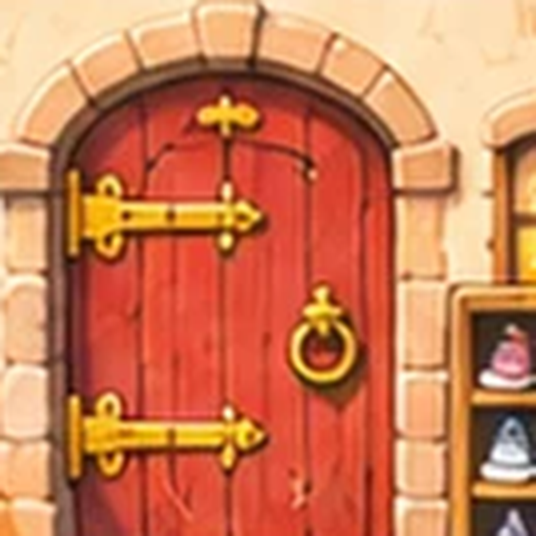
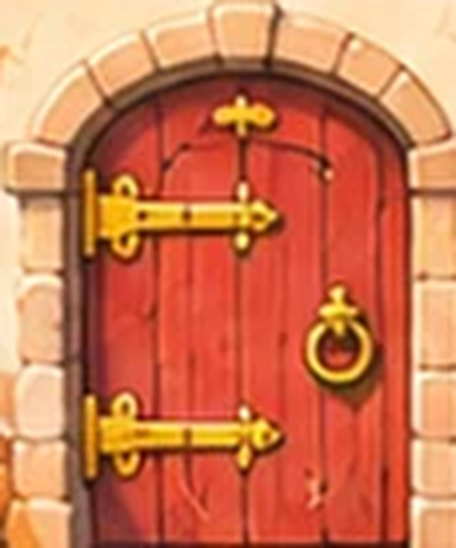
fix-gatelayer-pics-2a: gate pictures: detailed rejects, Amy's door matched to the painted arch, game starts again
Claude-Session: https://claude.ai/code/session_01RXeukE5CVoXbNDax28aKv1

diff --git a/tools/art-library/gate-prompts.js b/tools/art-library/gate-prompts.js
@@ -45,16 +45,18 @@ const GATES = [
     what: 'A steel catwalk bridge section hoisted up on two chains and hanging at a steep angle, with the foot of a metal stair below it ending in an empty dark gap. A yellow and black hazard chain is strung across the gap and a small sign hangs on the chain reading exactly: CATWALK OFFLINE',
     size: 'It spans the full width of the stairs, about two people wide, and is about two people tall.' },
   // gatelayer1: the locked and open pictures of Amy's front door (the painted door is the whole doorway, stone arch and red leaf; the picture replaces it exactly).
-  { id: 'row-amyhouse', ar: '1:1', area: 'Rivituso Row', file: 'art/row.webp', title: 'Amy\'s front door, locked (Row, chapter 1)',
+  // fix-gatelayer-pics-2: the crop and GATE_ART rect are exactly the arch (they had taken in the shoe shelf and window), and the picture has a margin
+  // (the bake trims to the drawn arch; "edge to edge" fought the margin rule).
+  { id: 'row-amyhouse', ar: '3:4', area: 'Rivituso Row', file: 'art/row.webp', title: 'Amy\'s front door, locked (Row, chapter 1)',
     where: 'Rivituso Row is a garden lane of cottages and cobbled paths. The door to paint is the front door of the cream and red timber cottage with the gold GREGORI sign: a round topped red wooden door with two long gold hinges and a gold ring knocker, set in a pale stone arch, with three stone steps in front.',
-    what: 'That same doorway, painted as a drop in replacement of the reference: the same pale stone arch, the same red wooden door with two gold hinges and gold ring knocker, same size and shape, door shut. Add a small handwritten paper note taped to the door at eye height, with a tiny doodle of a running shoe on it and no words. The three stone steps below the door are NOT part of the picture.',
-    size: 'It fills the whole picture edge to edge so it can sit exactly over the real door: the stone arch touches the top and sides, the door sill touches the bottom.',
-    ref2: 'art/raw/props/gate-row-amyhouse-door-ref.png', ref2says: 'A close crop of that real door, cut from the painting. Paint exactly this doorway: the same stone arch, the same red door, hinges and knocker, the same colors and brushwork.' },
-  { id: 'row-amyhouse-open', ar: '1:1', area: 'Rivituso Row', file: 'art/row.webp', title: 'Amy\'s front door, unlocked and open (Row, chapter 2 on)',
+    what: 'That same doorway, painted as a drop in replacement of the reference: the same pale stone arch, the same red wooden door with two gold hinges and gold ring knocker, same size and shape, door shut. Add a small handwritten paper note taped to the door at eye height, with a tiny doodle of a running shoe on it and no words. Paint only the stone arch and the door inside it: no wall, window, shelf, steps or sign beside, above or below it.',
+    size: 'Seen straight on, the arch is a little taller than it is wide, about 5 wide to 6 tall, the same proportions as the attached crop.',
+    ref2: 'art/raw/props/gate-row-amyhouse-door-ref.png', ref2says: 'A crop of exactly that doorway, cut from the painting. Paint exactly this doorway: the same stone arch, the same red door, hinges and knocker, the same colors and brushwork.' },
+  { id: 'row-amyhouse-open', ar: '3:4', area: 'Rivituso Row', file: 'art/row.webp', title: 'Amy\'s front door, unlocked and open (Row, chapter 2 on)',
     where: 'Rivituso Row is a garden lane of cottages and cobbled paths. The door to paint is the front door of the cream and red timber cottage with the gold GREGORI sign: a round topped red wooden door with two long gold hinges and a gold ring knocker, set in a pale stone arch, with three stone steps in front.',
-    what: 'That same doorway, painted as a drop in replacement of the reference: the same pale stone arch and the same red wooden door with its two gold hinges and gold ring knocker, but the door is swung open inward about half way, showing a warm golden lit hallway inside with a hint of a coat hook and a rug. No note on the door. The three stone steps below the door are NOT part of the picture.',
-    size: 'It fills the whole picture edge to edge so it can sit exactly over the real door: the stone arch touches the top and sides, the door sill touches the bottom.',
-    ref2: 'art/raw/props/gate-row-amyhouse-door-ref.png', ref2says: 'A close crop of that real door, cut from the painting. Paint exactly this doorway: the same stone arch, the same red door, hinges and knocker, the same colors and brushwork.' },
+    what: 'That same doorway, painted as a drop in replacement of the reference: the same pale stone arch and the same red wooden door with its two gold hinges and gold ring knocker, but the door is swung open inward about half way, showing a warm golden lit hallway inside with a hint of a coat hook and a rug. No note on the door. Paint only the stone arch and the door inside it: no wall, window, shelf, steps or sign beside, above or below it.',
+    size: 'Seen straight on, the arch is a little taller than it is wide, about 5 wide to 6 tall, the same proportions as the attached crop.',
+    ref2: 'art/raw/props/gate-row-amyhouse-door-ref.png', ref2says: 'A crop of exactly that doorway, cut from the painting. Paint exactly this doorway: the same stone arch, the same red door, hinges and knocker, the same colors and brushwork.' },
   // gatelayer1: the open state of the gates that swing or lift.
   { id: 'town-school-open', ar: '1:1', area: 'the Square', file: 'art/town.webp', title: 'School gate, open (Square east lane, chapter 5 on)',
     where: 'The Square is a cobbled plaza ringed by little shops. The opening is the cobbled lane at the far side of the plaza, beside the green SCHOOL arrow signboard and the toy shop with the round orange sign.',
@@ -70,7 +72,7 @@ const GATES = [
     size: 'The two posts are as far apart as the road gap, about two people wide, and are about waist high. The raised arm is about as tall as a person.' },
   { id: 'backlot-stage7-open', ar: '3:2', area: 'the studio backlot', file: 'art/backlot.webp', title: 'Stage 7 doors, open (Backlot, chapter 4 on)',
     where: 'The Backlot is a movie studio street of fake western and city sets. The opening is the big open hangar doorway at the far end of the street, under the STAGE 7 lettering.',
-    what: 'A pair of enormous dark grey riveted steel soundstage sliding doors with yellow and black hazard stripes along the bottom, slid wide apart to both sides so the middle of the doorway is open and shows a dark soundstage interior with a few warm work lights. The round red warning lamp above is dark. No sign.',
+    what: 'A pair of enormous dark grey riveted steel soundstage sliding doors with yellow and black hazard stripes along the bottom, slid wide apart to both sides so the middle of the doorway is open and shows a dark soundstage interior with a few warm work lights. The round red warning lamp above is switched off: dark red glass, no glow. No sign.',
     size: 'It fills the whole hangar doorway, about two people wide, and is about three people tall.' },
 ];
 

diff --git a/index.html b/index.html
@@ -1991,7 +1991,7 @@ html.landscape:not(.tablet):not(.duo) #battle.v2 .b2-x{font-size:17px}html.lands
 <script src="engine/travel.js?v=fix-ch1flight"></script>
 <script src="engine/nara.js?v=ch2build"></script>
 <script src="engine/story.js?v=fix-ch1flight"></script>
-<script src="data/gate-art.js?v=fix-artgen2look"></script><!-- the gate sites (painted closed-entrance pictures, locked and open) -->
+<script src="data/gate-art.js?v=fix-gatelayer-pics-2a"></script><!-- the gate sites (painted closed-entrance pictures, locked and open) -->
 <script src="engine/gate-art.js?v=gatelayer1"></script><!-- draws them in the actors' depth order, never over a character -->
 <script src="engine/boss-finale.js?v=ch1rebuild1"></script>
 <script src="engine/bench.js"></script>
@@ -2105,13 +2105,13 @@ html.landscape:not(.tablet):not(.duo) #battle.v2 .b2-x{font-size:17px}html.lands
 <script src="engine/emotions.js?v=qa-bug02"></script>
 <script src="engine/script-edits.js?v=scripted2"></script><!-- Script Editor overlay: Tom's line edits applied before a scene plays (script.html) --><!-- mood faces and poses in story dialogue (batch 0: chapter 1) -->
 <script src="engine/tapwalk.js?v=bossbig1"></script><!-- tap to walk -->
-<script src="data/build-history.js?v=fix-hollowtrail-play-2"></script><!-- build names and times (tools/build_history.py) -->
+<script src="data/build-history.js?v=fix-gatelayer-pics-2a"></script><!-- build names and times (tools/build_history.py) -->
 <script src="engine/build-history.js?v=refresh1"></script><!-- build label on the welcome screen and menu, tap for the build history -->
 <script src="engine/amber-spots.js?v=qa-coh06"></script><!-- orange blocks left behind are solid and answer A (amberspot1) -->
 <script src="engine/block-break.js?v=ch7t1"></script><!-- breaking an orange block: coin, cracks, colour ring, shrink-back, encounters off (ch6build stage 2) -->
 <script src="engine/scene-props.js?v=qa-coh07"></script><!-- drawn stand-in props a scene can put on a map: the chart, Rose rolled up, the gold ball, bulbs (ch7build stage 2) -->
 <script src="engine/video-call.js?v=ch6s4"></script><!-- the video call at the end of chapter 6: Long Island seen from Tom's porch (ch6build stage 4) -->
-<script src="engine/main.js?v=fix-hollowtrail-play-2"></script>
+<script src="engine/main.js?v=fix-gatelayer-pics-2a"></script>
 <script src="engine/music.js"></script>
 <script src="data/songs.js"></script>
 <script src="engine/music-clips.js?v=adminvol1"></script>

diff --git a/data/build-history.js b/data/build-history.js
@@ -1,5 +1,6 @@
 // Generated by tools/build_history.py. Do not edit by hand. Newest first.
 const BUILD_HISTORY=[
+{"tag":"fix-gatelayer-pics-2a","at":"2026-11-20T19:47:13-08:00","what":"Gate pictures: detailed rejects, Amy's door matched to the painted arch, door crop fixed","card":"c-fix-gatelayer-pics-2","theme":"Tools"},
 {"tag":"fix-hollowtrail-play-2","at":"2026-11-21T03:40:13+00:00","what":"Grump Hollow wrapper trail is now three legs of four wrappers: Mudling to the top left Toad, Toad to the Log, Log to the fishing spot","card":"c-fix-hollowtrail-play-2","theme":"Areas"},
 {"tag":"qa-coh07","at":"2026-11-21T03:38:55+00:00","what":"The twelve-cup muffin pan sits on Deedee's island from the moment Tom walks in","card":"c-qa-coh07","theme":"Story and Dialogue"},
 {"tag":"wanch1g","at":"2026-11-20T19:38:22-08:00","what":"Three leftover script tags of the removed monster clips taken out of index.html","card":"c-wanch1","theme":"Battle Animations"},

diff --git a/data/gate-art.js b/data/gate-art.js
@@ -19,7 +19,7 @@ const GATE_ART={
   'town-hollow':     {map:'town',     rect:[7,3,2,2],         fit:1.15, states:['locked']},
   'town-school':     {map:'town',     rect:[27.85,8,1.55,1.7], fit:.66,   states:['locked','open']},   // under the SCHOOL sign, between its posts (Tom 11-20 report 5nwp)
   'row-pier':        {map:'row',      rect:[12,20,3,1],       fit:1.05, states:['locked']},
-  'row-amyhouse':    {map:'row',      rect:[6,4.45,2.1,2.1], fill:true, states:['locked','open']},
+  'row-amyhouse':    {map:'row',      rect:[5.94,4.45,1.78,2.14], fill:true, states:['locked','open']},   // exactly the stone arch (fix-gatelayer-pics-2)
   'blvd-trail':      {map:'blvd',     rect:[1.9,2,2.2,1.5],   fit:1.2,  states:['locked']},
   'blvd-studio':     {map:'blvd',     rect:[26.9,6.8,2.4,1],  states:['locked','open']},
   'jpark-oak':       {map:'jpark',    rect:[13,21,4,1],       fit:1.1,  states:['locked']},

diff --git a/engine/main.js b/engine/main.js
@@ -109,7 +109,7 @@ startSplash();
   const d=document.createElement('button');
   d.type='button'; d.id='build-stamp'; d.setAttribute('aria-label','Build history');
   // On an iPhone Duo the stamp also shows the page size and pose the game measured, so Tom can read them back (docs/DUO.md).
-  d.textContent='build fix-hollowtrail-play-2';
+  d.textContent='build fix-gatelayer-pics-2a';
   const build=d.textContent,stamp=()=>{ const w=typeof buildWhenLabel==='function'?buildWhenLabel(build.slice(6)).slice(2):'', duo=typeof duoMode!=='undefined'&&duoMode.device?window.innerWidth+'x'+window.innerHeight+(duoMode.open?' duo open':' duo folded'):'';
     d.textContent=build; for(const t of [w,duo]) if(t){ const s=document.createElement('small'); s.textContent=t; d.appendChild(s); } };
   window.BUILD_TAG=build.slice(6);

diff --git a/docs/CHANGES.md b/docs/CHANGES.md
@@ -1,3 +1,11 @@
+## fix-gatelayer-pics-2a (2026-11-21): gate pictures: detailed rejects, Amy's door matched to the painted arch, door crop fixed
+
+Card c-fix-gatelayer-pics-2, part a. Tom on card t-gatelayer-pics: "reject images that are wrong with details and adjust the prompt as necessary, then regerenate and recheck the images".
+- The six rejected pictures now carry what was wrong with each, not only "All failed" (`data/art-prompts.json` rejects).
+- Amy's door: the reference crop (`art/raw/props/gate-row-amyhouse-door-ref.png`) and the game rectangle (`GATE_ART['row-amyhouse']`, now `[5.94,4.45,1.78,2.14]`) are exactly the stone arch; both had taken in the shoe shelf and window. Both door prompts ask for the arch and door only, 3:4, with a margin (the bake trims; "edge to edge" fought the margin rule).
+- Stage 7 open: the lamp is "switched off: dark red glass, no glow" (it came back lit).
+- Found on main: build qa-bug01 had pushed unresolved conflict markers into `engine/main.js` and `index.html` (the game stopped at load, `BUILD_HISTORY` declared twice); fix-hollowtrail-play-2 cleared them first, this build keeps its version.
+
 ## fix-hollowtrail-play-2 (2026-11-21): Grump Hollow wrapper trail is now three legs of four wrappers: Mudling to the top left Toad, Toad to the Log, Log to the fishing spot
 
 Tom (t-hollowtrail-play): "youre not understanding - you created several images where the wrappers are scattered haphazardly across the area... after defeating the mudling, there should be 4 wrappers that lead to the top left corner... after defeating that monster, there should 4 more wrappers that lead to the center of the aera, where the party must defeat the log... after defeating the log, there should be 4 more wrappers that lead to the big one activiation spot / after each monster is defeated... Grace should say 3 wrappers, let's follow them! / only 3 monster should trigger this: the mudling, the toad looking thing in the top left and the log that sits in the middle".
